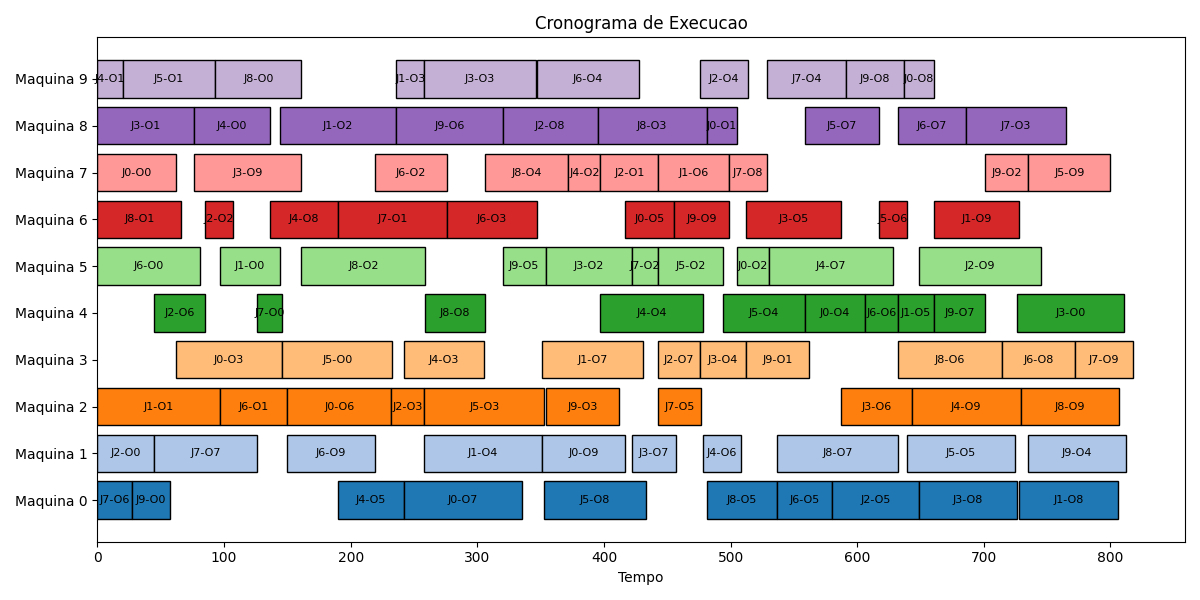
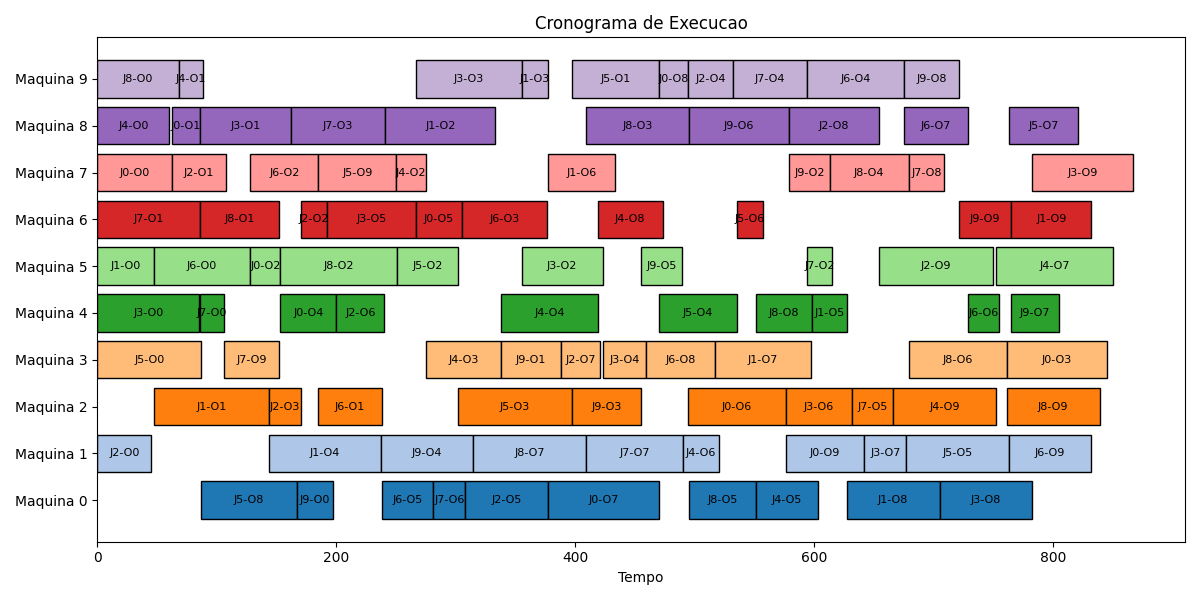
Segundo commit: Alterando a forma como é definida as cores no grafico

diff --git a/GA+TS+MP.py b/GA+TS+MP.py
@@ -19,8 +19,14 @@ def ler_entrada_interativa():
     return maquinas, num_jobs, job_machines, job_durations
 
 #PARAMETROS DO ALGORITMO
-TAMANHO_POPULACAO=90 #Quantidade de solucoes na populacao
+'''TAMANHO_POPULACAO=90 #Quantidade de solucoes na populacao
 GERACOES=200 #Quantidade de iteracoes do algoritmo
+TAXA_MUTACAO=0.2 #Chance de uma solucao sofrer mutacao
+FREQUENCIA_TABU=3 #A cada quantas geracoes aplica busca tabu
+TOP_REFINAMENTO=0.1 #Porcentagem das melhores solucoes para refinamento'''
+
+TAMANHO_POPULACAO=90 #Quantidade de solucoes na populacao
+GERACOES=100 #Quantidade de iteracoes do algoritmo
 TAXA_MUTACAO=0.2 #Chance de uma solucao sofrer mutacao
 FREQUENCIA_TABU=3 #A cada quantas geracoes aplica busca tabu
 TOP_REFINAMENTO=0.1 #Porcentagem das melhores solucoes para refinamento
